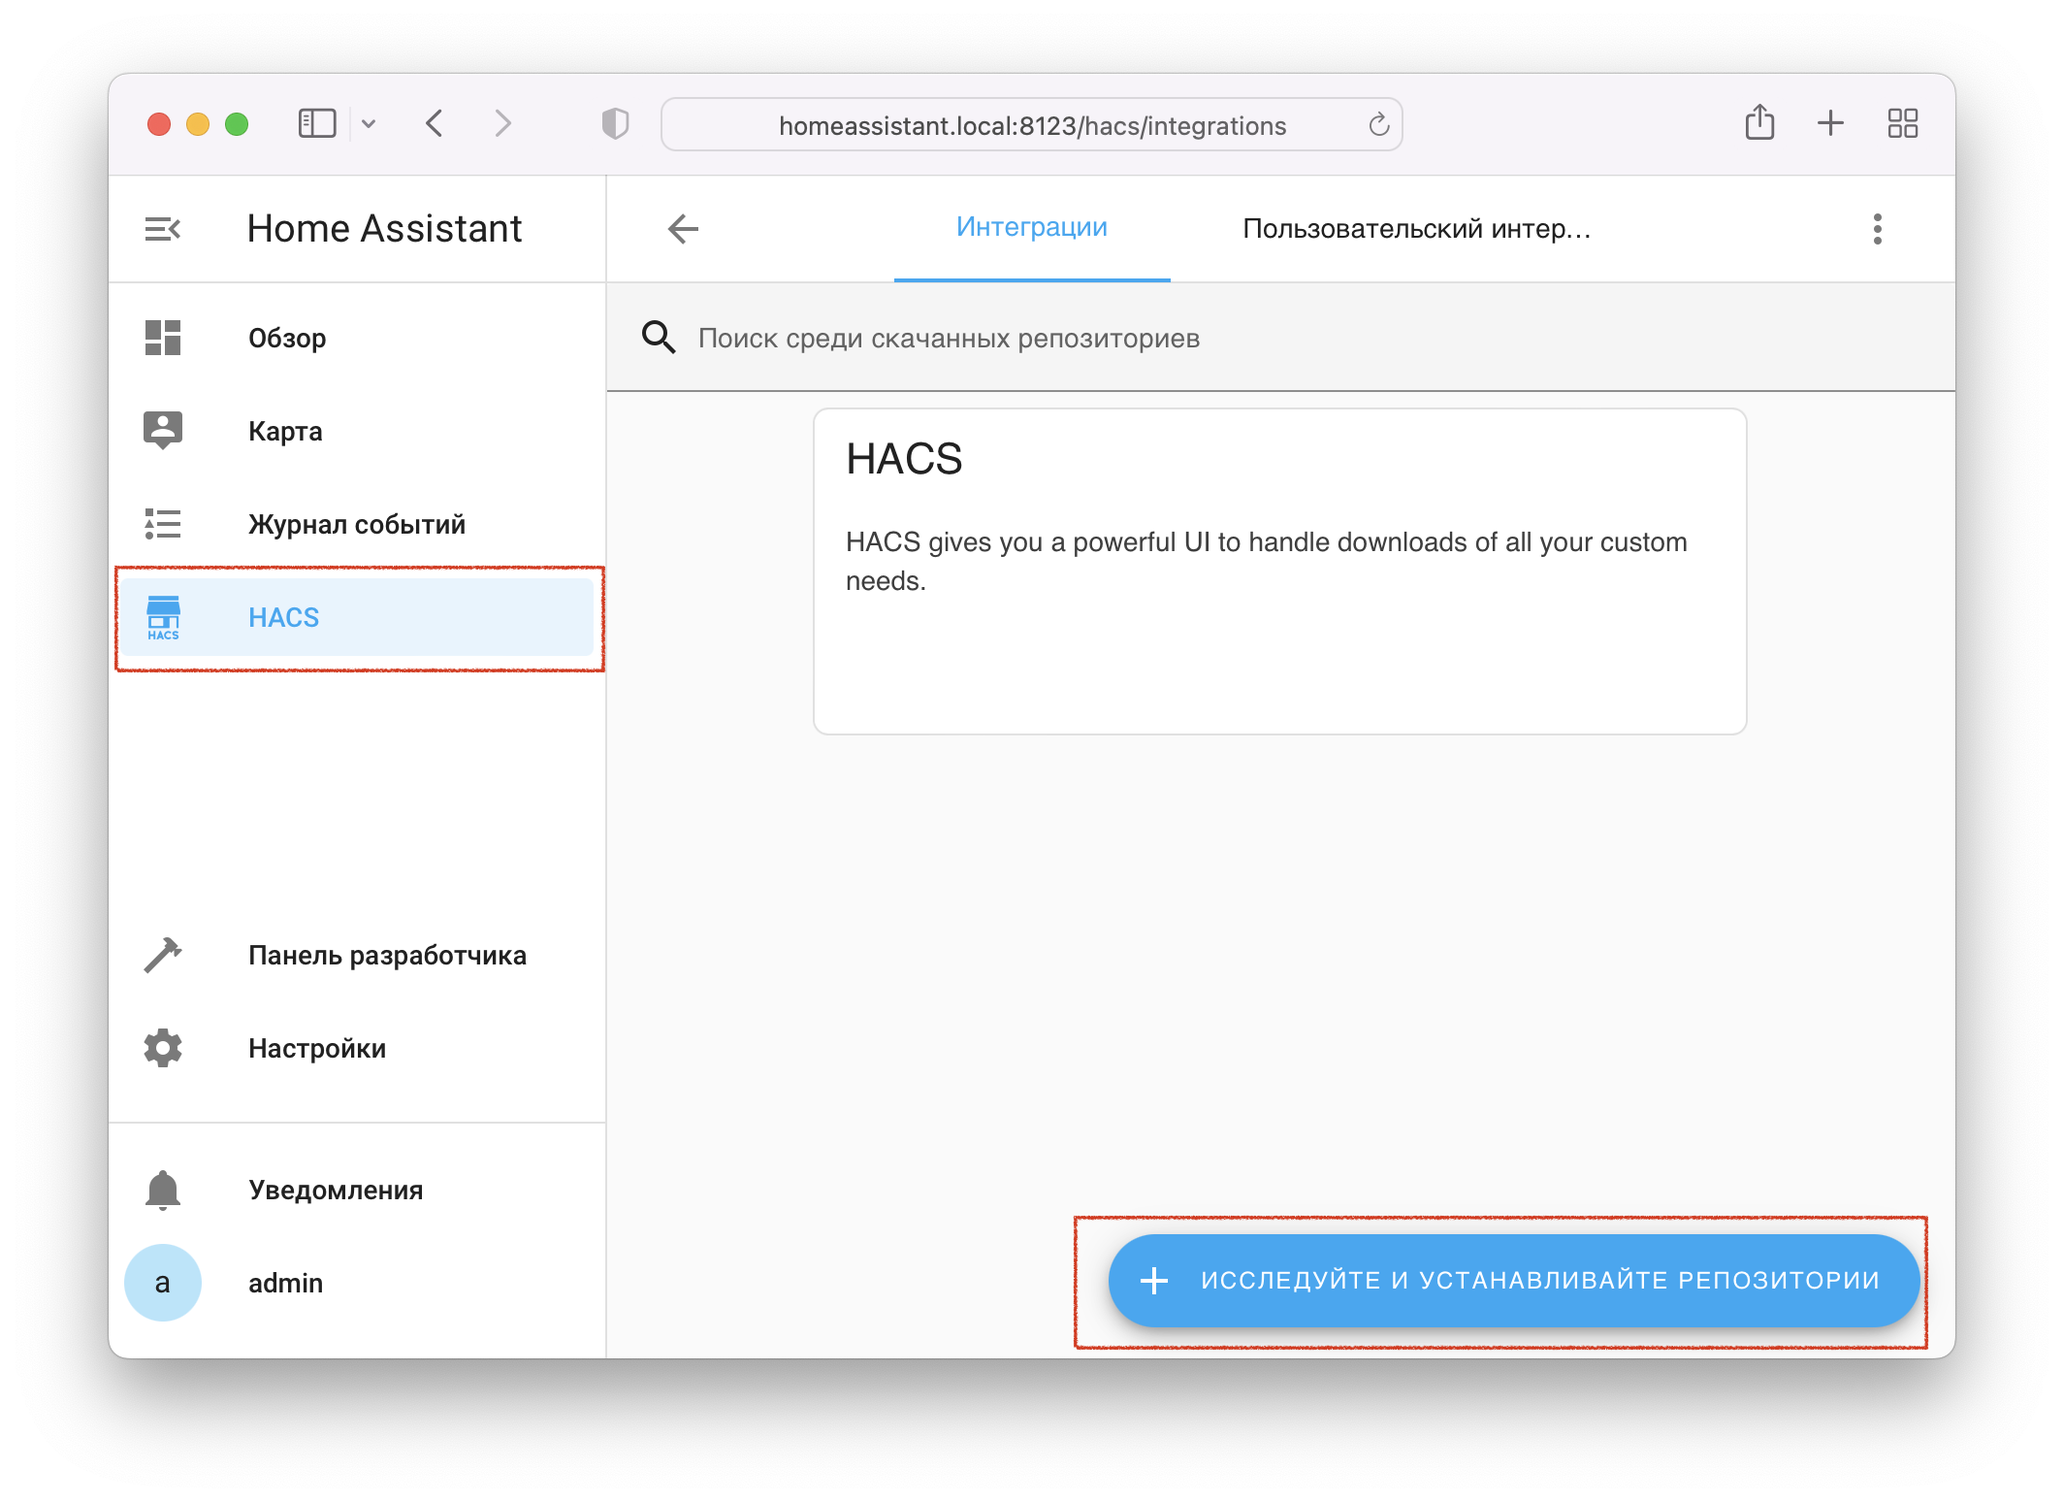
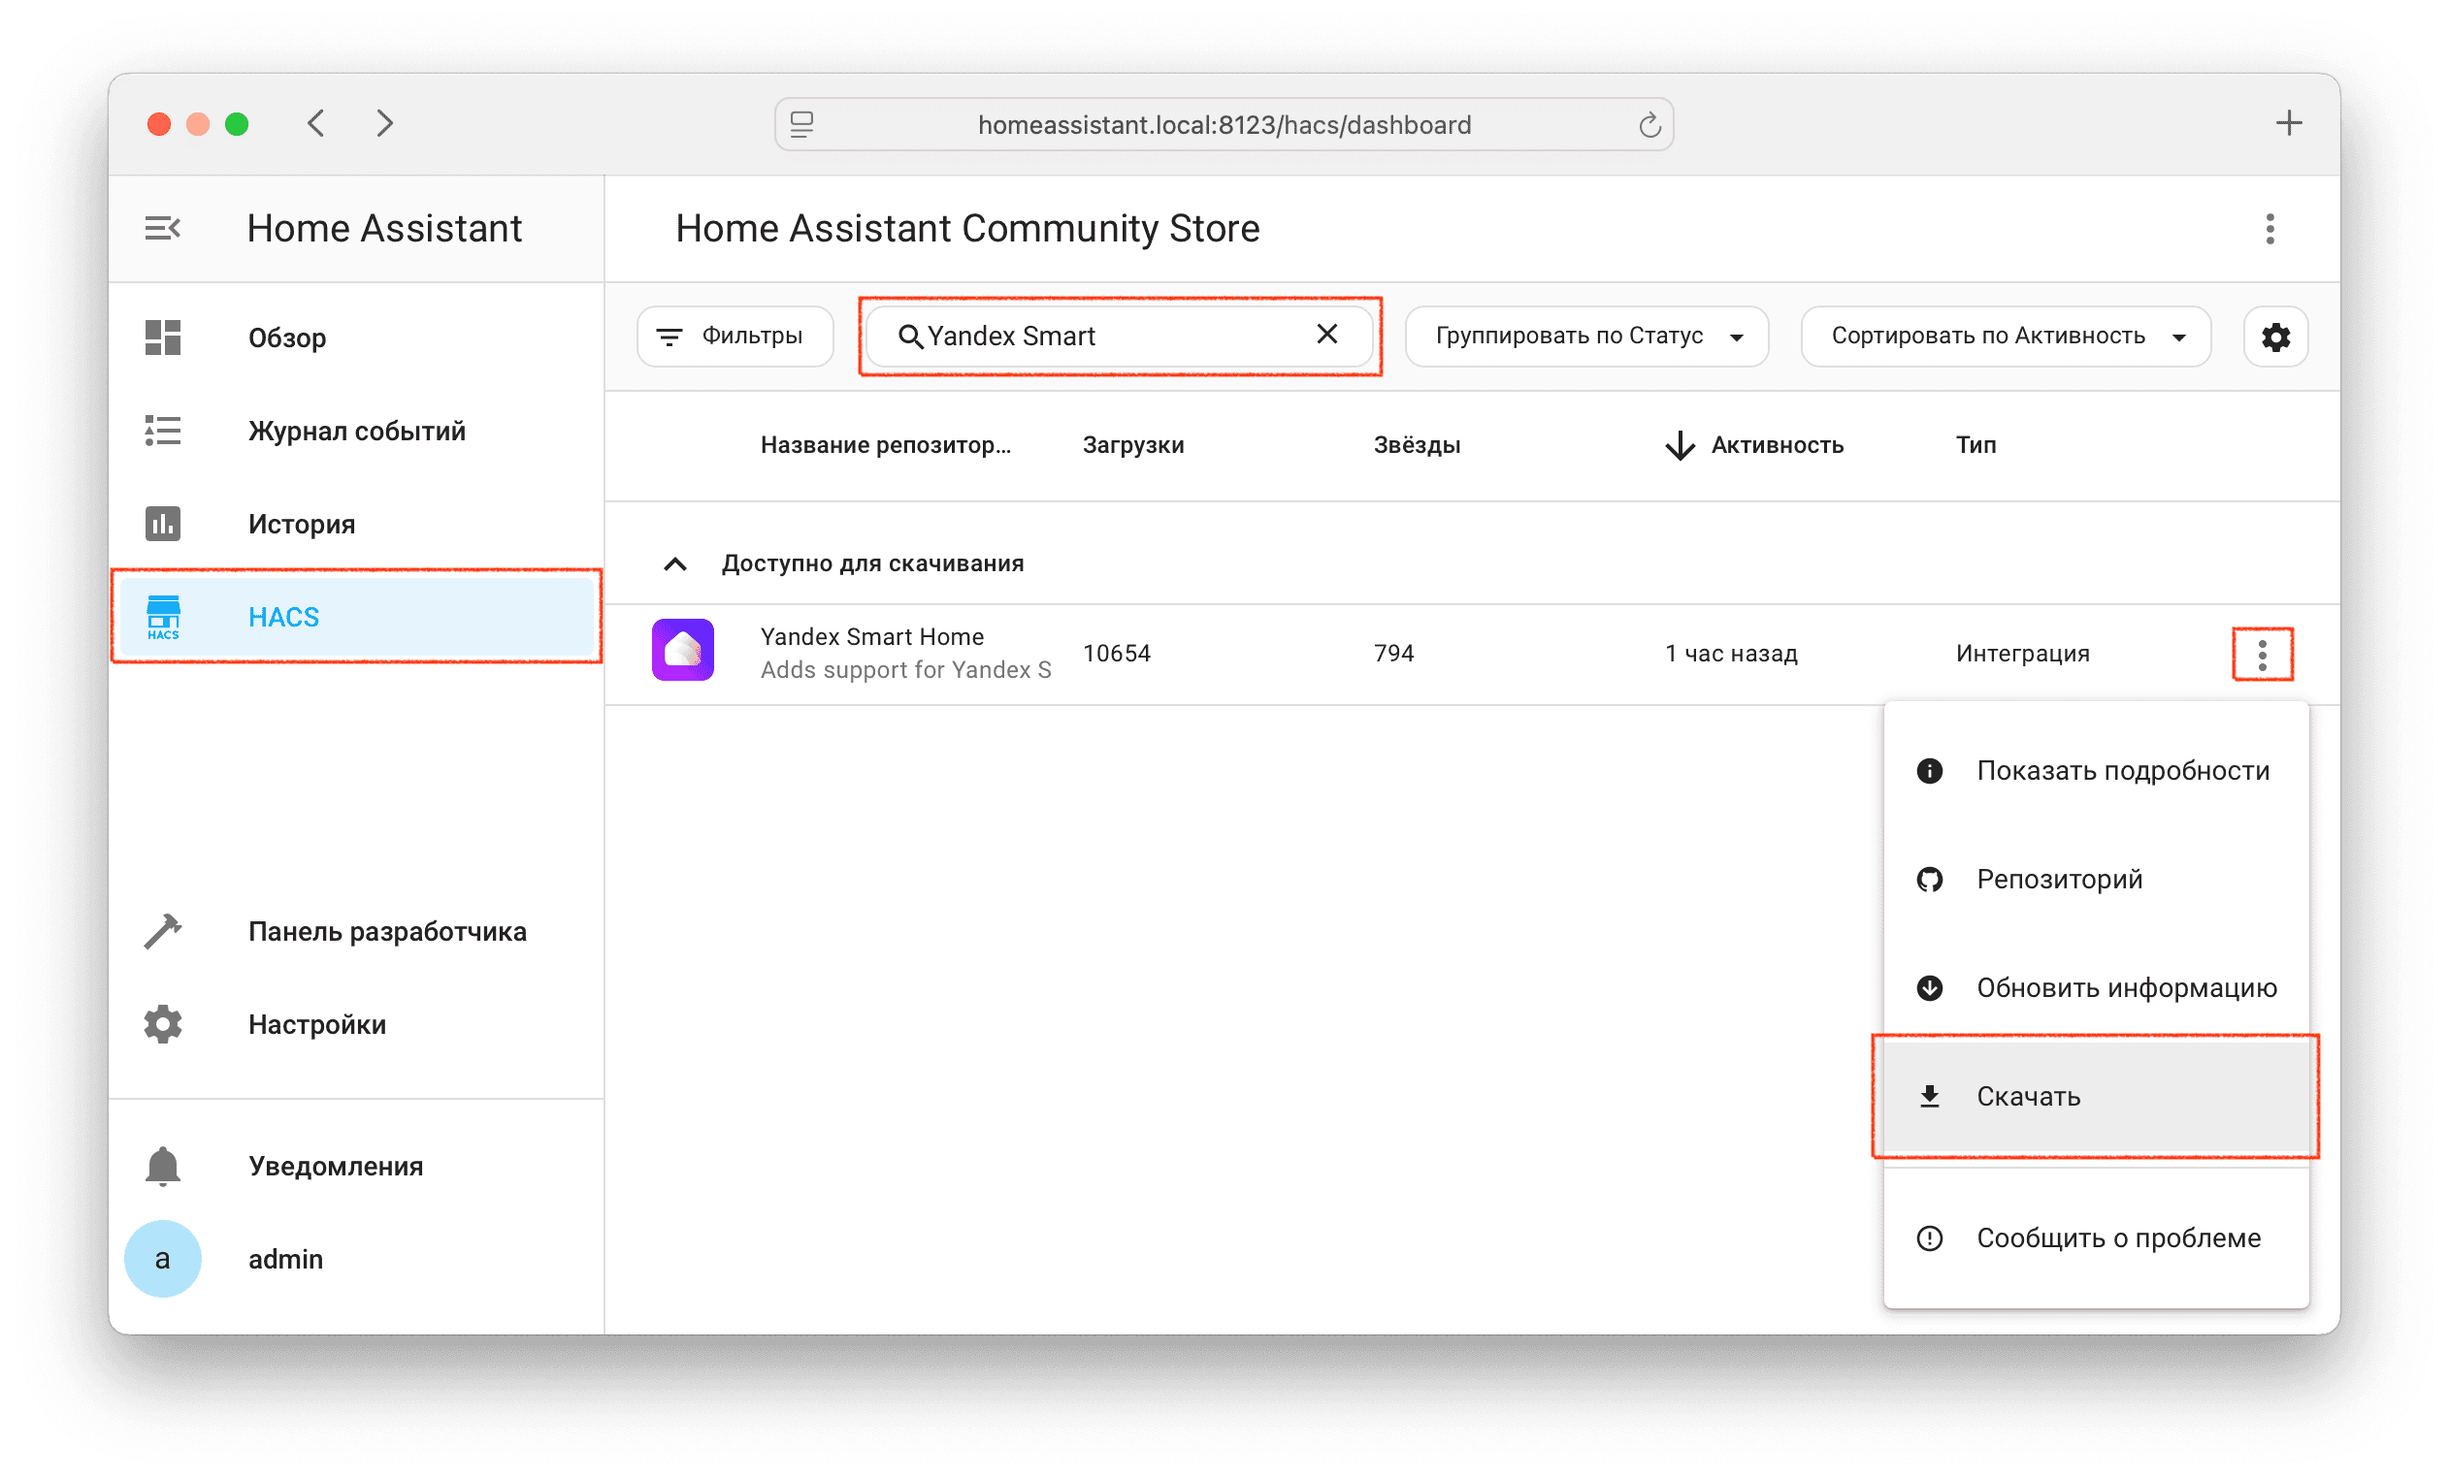
docs: Rewrite component installation for HACS v2

diff --git a/docs/install/component.md b/docs/install/component.md
@@ -1,30 +1,39 @@
-## Через HACS (рекомендованный способ) { id=hacs }
-* Установите [HACS](https://hacs.xyz/docs/setup/download)
-* Откройте HACS --> Интеграции
-* Нажмите кнопку `Исследуйте и устанавливайте репозитории` в правом нижнем углу
-* В поиске введите `Yandex` и выберите `Yandex Smart Home`
-* Нажмите `Загрузить этот репозиторий с помощью HACS` --> `Скачать`
+## Установка через HACS { id=hacs }
+
+!!! success "Рекомендованный способ"
+
+* [Установите](https://hacs.xyz/docs/use/download/download/) компонент HACS --> Перезагрузите Home Assistant --> [Добавьте интеграцию](https://hacs.xyz/docs/use/configuration/basic/) HACS
+* Откройте HACS через боковую панель
+* В поиске введите `Yandex Smart Home`
+* Нажмите :fontawesome-solid-ellipsis-vertical: в строчке с интеграцией --> `Скачать`
 * Для завершения установки перезагрузите Home Assistant
 
 ![](../assets/images/install/hacs-1.png){ width=750 }
 ![](../assets/images/install/hacs-2.png){ width=750 }
 
-## Вручную (не рекомендуется) { id=manual }
-* Вручную скопируйте папку `custom_components/yandex_smart_home` из [latest release](https://github.com/dext0r/yandex_smart_home/releases/latest) в директорию `/config/custom_components`
+## Установка вручную { id=manual }
+
+!!! warning "Не рекомендуется!"
+
+!!! hint "Обновление выполняется аналогично установке"
+
+* Скачайте архив `yandex_smart_home.zip` из [последнего релиза](https://github.com/dext0r/yandex_smart_home/releases/latest)
+* Создайте подкаталог `custom_components/yandex_smart_home` в каталоге где расположен файл `configuration.yaml`
+* Распакуйте содержимое архива в `custom_components/yandex_smart_home`
 * Перезапустите Home Assistant
 
-## Переход на бета-версию { id=change-version }
-Для перехода на бета-версию компонента или установки другой версии:
+## Обновление через HACS { id=update }
 
-* Откройте HACS, найдите компонент `Yandex Smart Home` и кликните по нему
-* Нажмите три точки в правом верхнем углу
-* Нажмите `Обновить информацию`, затем `Скачать повторно`
-* Поставьте галочку `Показывать бета-версии` и выберите нужную версию
-* Перезапустите Home Assistant
+При выпуска новой версии компонента информация о необходимости обновления появится в разделе Настройки. Если этого не произошло, проверьте обновления вручную через Настройки --> Система --> [Обновления](https://my.home-assistant.io/redirect/updates/) --> :material-refresh:
+
+Если по какой-то причине обновление не появляется, скачайте компонент повторно через HACS:
+
+* Откройте HACS через боковую панель
+* В поиске введите `Yandex Smart Home`
+* Нажмите :fontawesome-solid-ellipsis-vertical: в строчке с интеграцией --> `Скачать повторно`
+* Для завершения обновления перезагрузите Home Assistant
 
 !!! hint "Не беспокойтесь"
-    Повторное скачивание компонента **не удаляет** уже настроенную интеграцию
+    Повторное скачивание компонента **не удаляет** уже настроенную интеграцию.
 
-![](../assets/images/install/reinstall-1.png){ width=750 }
-![](../assets/images/install/reinstall-2.png){ width=750 }
-![](../assets/images/install/reinstall-3.png){ width=750 }
+![](../assets/images/install/reinstall.png){ width=750 }
